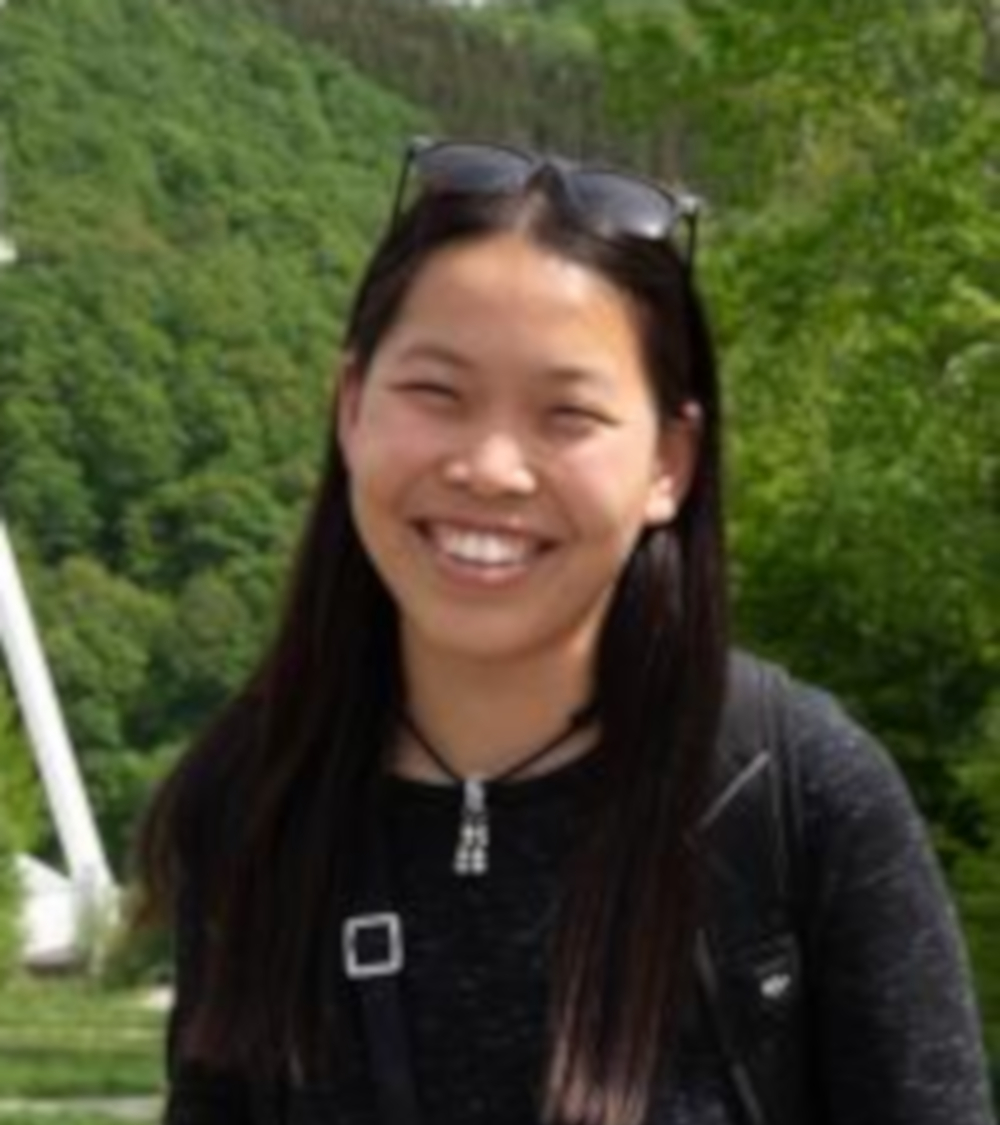
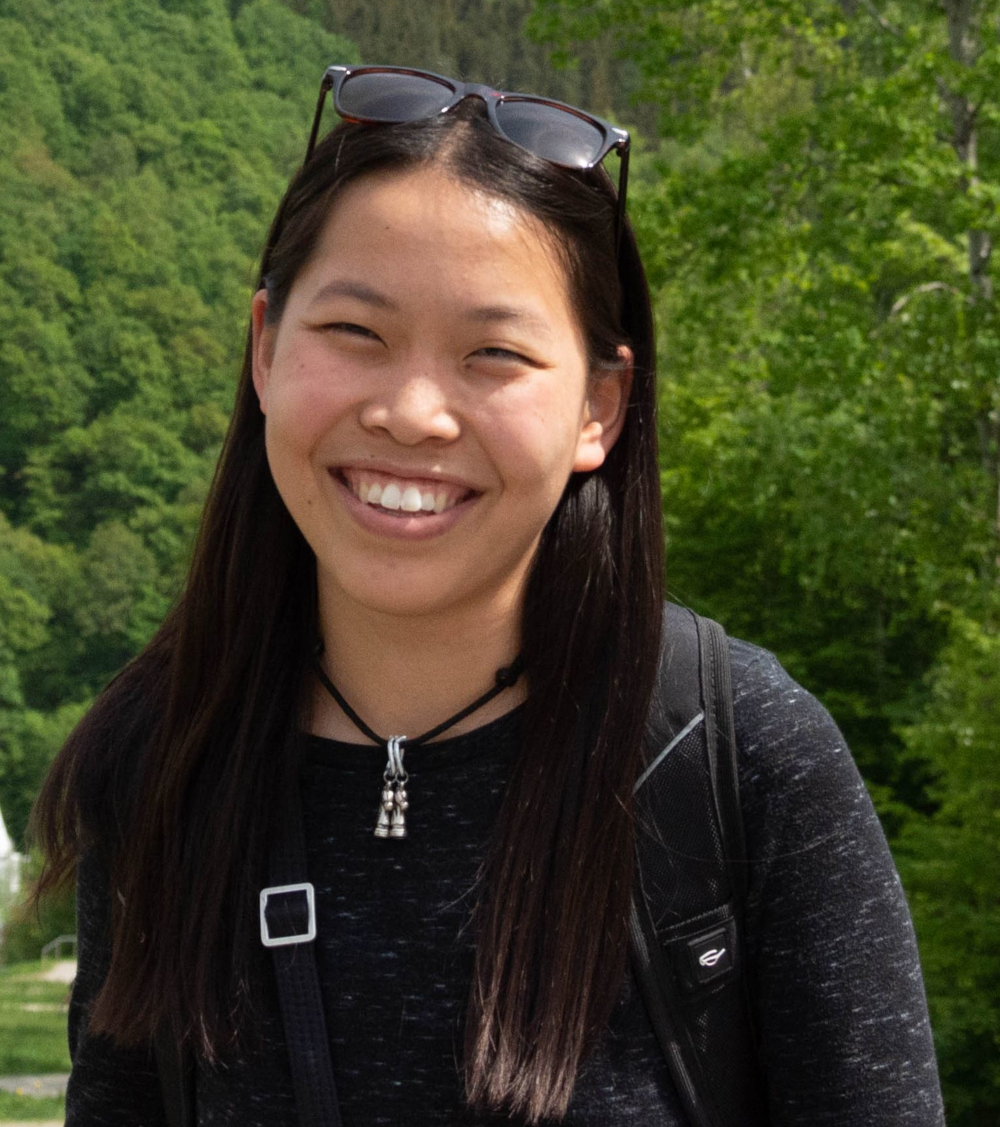
better Lily image

diff --git a/team.html b/team.html
@@ -123,7 +123,7 @@
 										</p>
 										<footer>
 											<ul class="buttons">
-												<li><a href="#" class="button small">Personal website</a></li>
+												<li><a href="https://www.astro.ufl.edu/~desika.narayanan/" class="button small">Personal website</a></li>
 											</ul>
 										</footer>
 									</section>
